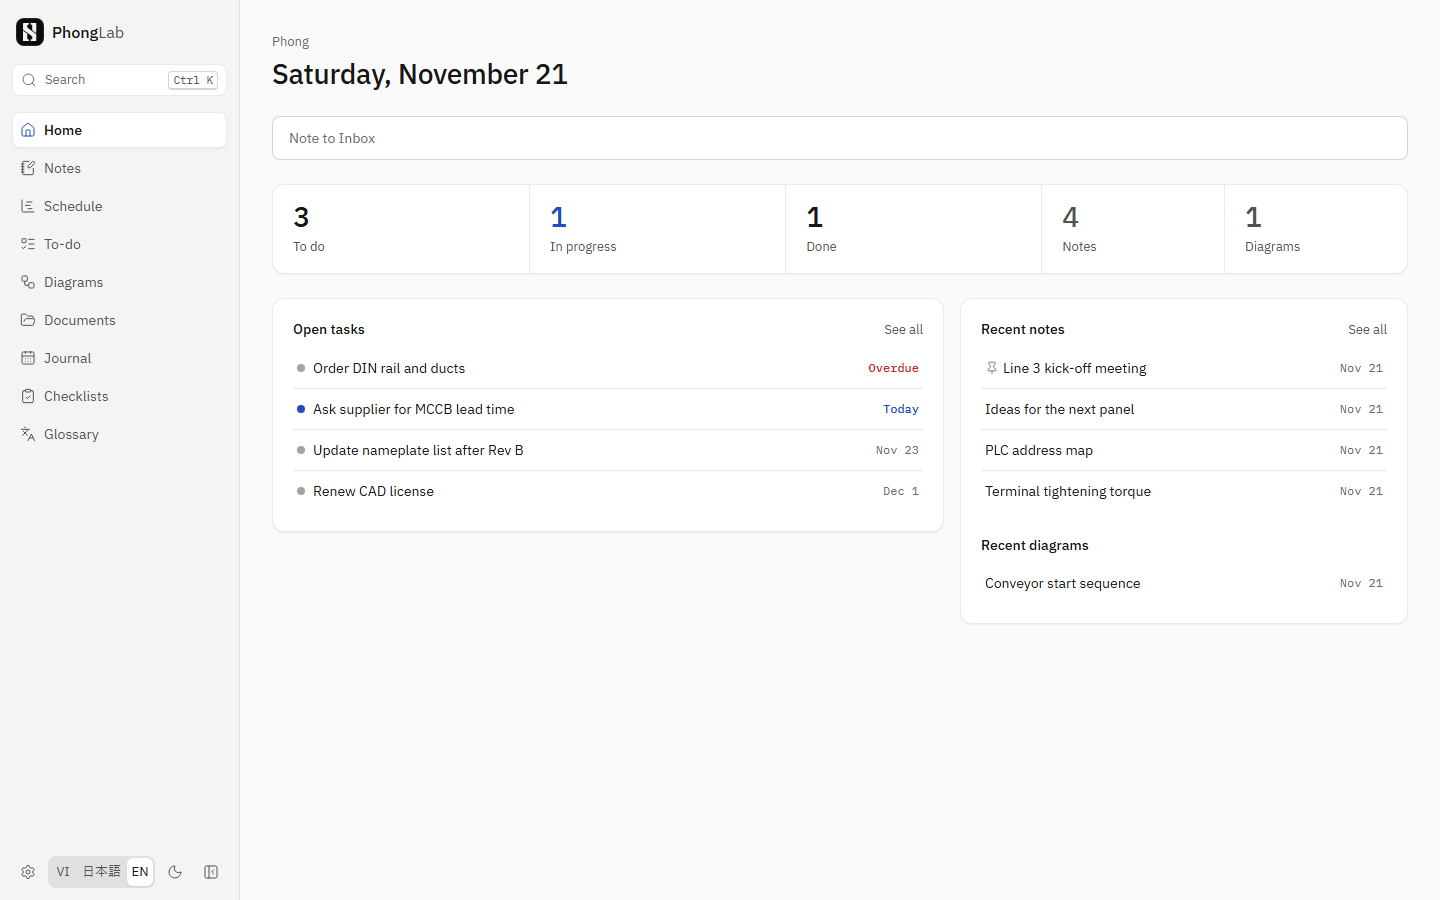
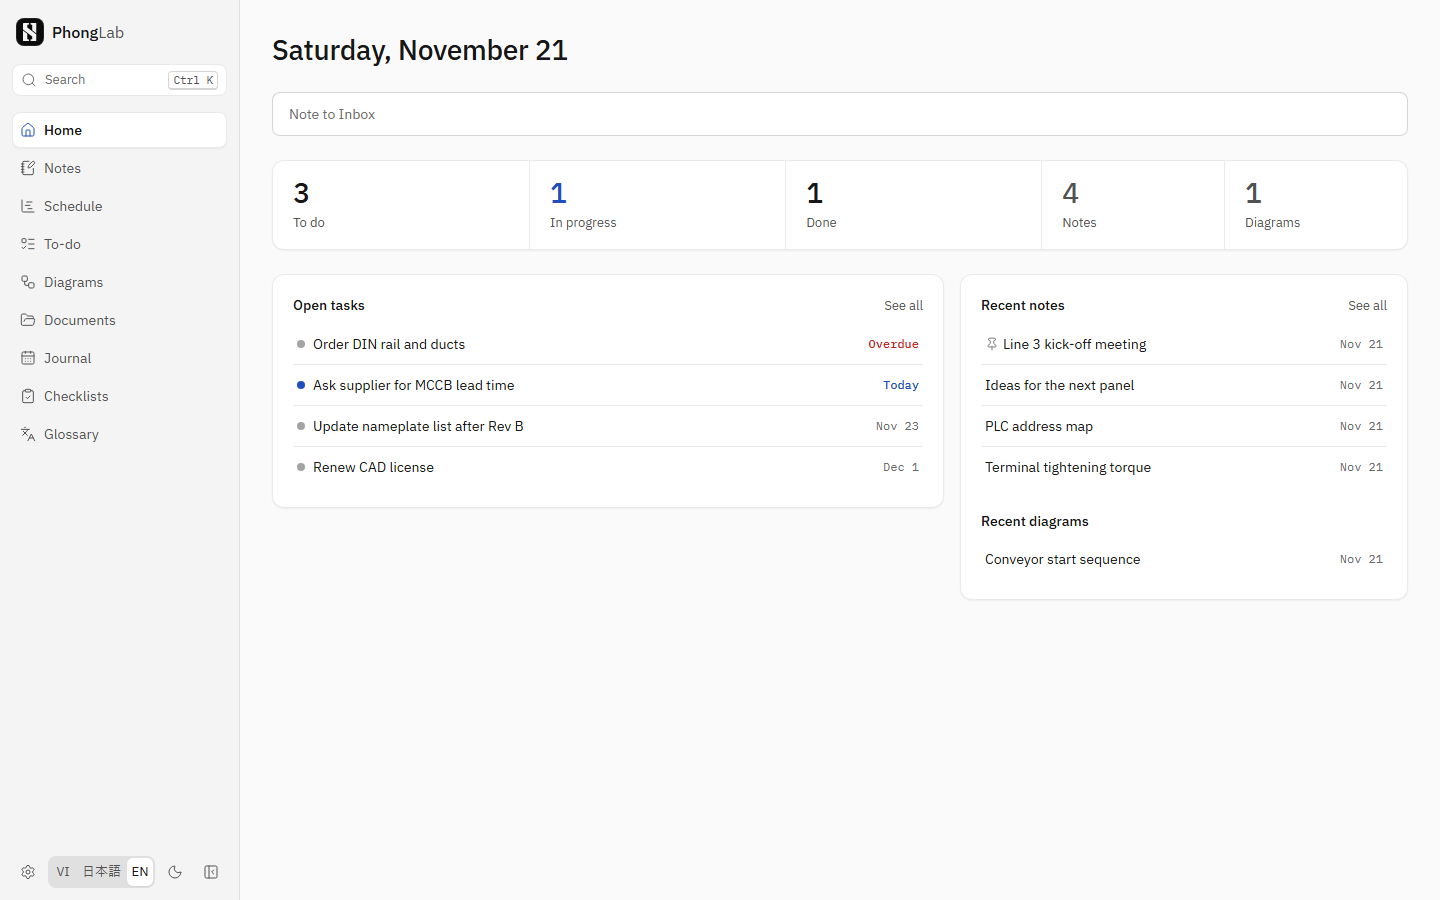
Remove the owner name from Home
Home is titled by the date only. Drop the Settings field that no longer
has any effect; the stored value is kept.

diff --git a/src/pages/Settings.tsx b/src/pages/Settings.tsx
@@ -8,13 +8,13 @@ const LANG_NAME: Record<Lang, string> = { vi: "Tiếng Việt", ja: "日本語",
 export default function SettingsPage() {
   const { t } = useT();
   const { settings, reload } = useSettings();
-  const [form, setForm] = useState({ site_name: "", owner_name: "", default_lang: "en" as Lang });
+  const [form, setForm] = useState({ site_name: "", default_lang: "en" as Lang });
   const [state, setState] = useState("");
   const picker = useRef<HTMLInputElement>(null);
 
   useEffect(() => {
-    setForm({ site_name: settings.site_name, owner_name: settings.owner_name, default_lang: settings.default_lang });
-  }, [settings.site_name, settings.owner_name, settings.default_lang]);
+    setForm({ site_name: settings.site_name, default_lang: settings.default_lang });
+  }, [settings.site_name, settings.default_lang]);
 
   async function save(e: React.FormEvent) {
     e.preventDefault();
@@ -51,10 +51,6 @@ export default function SettingsPage() {
       <form className="panel settings-form" onSubmit={save}>
         <label className="field">{t("siteName")}
           <input value={form.site_name} maxLength={60} onChange={(e) => setForm({ ...form, site_name: e.target.value })} />
-        </label>
-        <label className="field">{t("ownerName")}
-          <input value={form.owner_name} maxLength={60} onChange={(e) => setForm({ ...form, owner_name: e.target.value })} />
-          <span className="muted small">{t("ownerNameHint")}</span>
         </label>
         <label className="field">{t("defaultLanguage")}
           <select value={form.default_lang} onChange={(e) => setForm({ ...form, default_lang: e.target.value as Lang })}>

diff --git a/src/pages/Home.tsx b/src/pages/Home.tsx
@@ -1,6 +1,6 @@
 import { Pin } from "lucide-react";
 import { useEffect, useState } from "react";
-import { api, locale, useSettings, navigate, fmtDate, todayStr, useT, type FlowItem, type NoteItem, type Task } from "../lib";
+import { api, locale, navigate, fmtDate, todayStr, useT, type FlowItem, type NoteItem, type Task } from "../lib";
 
 type Summary = {
   counts: { notes: number; todo: number; doing: number; done: number; flows: number };
@@ -11,7 +11,6 @@ type Summary = {
 
 export default function Home() {
   const { t, lang } = useT();
-  const { settings } = useSettings();
   const [data, setData] = useState<Summary | null>(null);
   const [quick, setQuick] = useState("");
   const [flash, setFlash] = useState(false);
@@ -48,7 +47,6 @@ export default function Home() {
   return (
     <div className="page home">
       <header className="home-head">
-        {settings.owner_name && <p className="eyebrow">{settings.owner_name}</p>}
         <h1>{dateLine}</h1>
       </header>
 

diff --git a/src/lib.ts b/src/lib.ts
@@ -239,8 +239,6 @@ const dict = {
   collapse: ["Thu gọn / mở rộng menu", "メニューを折りたたむ / 展開", "Collapse / expand menu"],
   settings: ["Cài đặt", "設定", "Settings"],
   siteName: ["Tên site", "サイト名", "Site name"],
-  ownerName: ["Tên của bạn", "あなたの名前", "Your name"],
-  ownerNameHint: ["Hiện nhỏ phía trên ngày ở trang chủ. Có thể để trống.", "ホームの日付の上に小さく表示します。空欄でも可。", "Shown small above the date on Home. Can be empty."],
   defaultLanguage: ["Ngôn ngữ mặc định", "既定の言語", "Default language"],
   defaultLanguageHint: [
     "Áp dụng khi trình duyệt chưa chọn ngôn ngữ nào.",

diff --git a/README.md b/README.md
@@ -96,7 +96,7 @@ npm run dev:mine      # local development against your config
 npm run deploy:mine   # migrate + build + deploy your site
 ```
 
-Site name, your name, default language and logo are set in the app under **Settings**, not in code, so updating to a new version never conflicts with your changes.
+Site name, default language and logo are set in the app under **Settings**, not in code, so updating to a new version never conflicts with your changes.
 
 ## Updating
 
